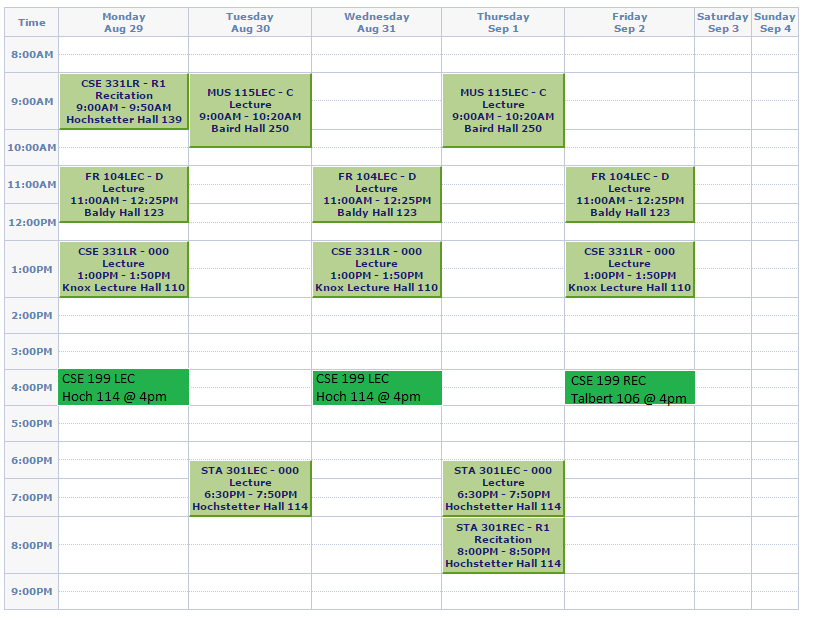
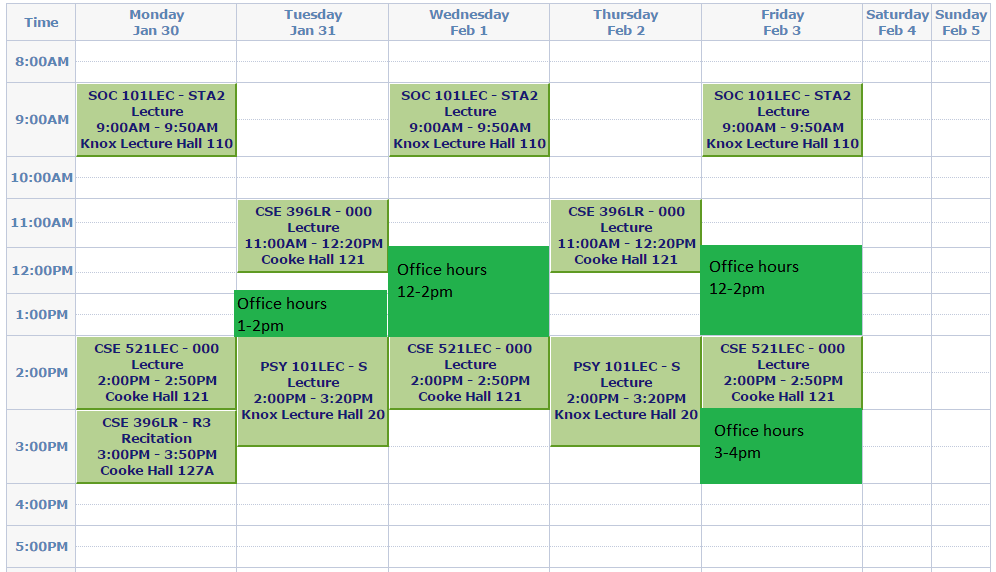
Updated schedule for new semester

diff --git a/prole/index.html b/prole/index.html
@@ -13,7 +13,7 @@
 <H1>School: Fall 2016<H1>
 <a><img src="../resource/img/semester.png" alt="semester" style="width:48%"></a>
 
-<H1>Work: Week of Mon 10/10</H1>
+<H1>Work: Week of Mon 2/1</H1>
 <table class="tg">
   <tr>
     <th class="tg-hjji">Mon</th>
